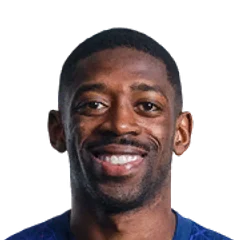
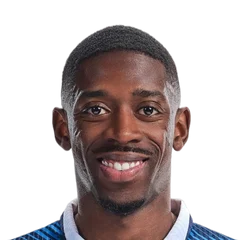
Cambios

diff --git a/styles.css b/styles.css
@@ -513,8 +513,8 @@ body.pv-locked {
 }
 
 .pv-content {
-  max-width: 480px;
-  margin: 8px auto 60px;
+  max-width: 1400px;
+  margin: 8px auto 40px;
   padding: 0 16px;
 }
 
@@ -525,12 +525,13 @@ body.pv-locked {
   border-radius: 10px 10px 0 0;
   overflow: hidden;
   box-shadow: 0 10px 30px rgba(0,0,0,0.4);
+  max-width: 600px;
 }
 
 .pv-photo-wrap {
-  width: 160px;
-  min-width: 160px;
-  height: 170px;
+  width: 130px;
+  min-width: 130px;
+  height: 130px;
   background: #333;
   display: flex;
   align-items: center;
@@ -597,6 +598,7 @@ body.pv-locked {
   background: #2d3640;
   padding: 10px 14px;
   box-shadow: 0 4px 14px rgba(0,0,0,0.3);
+  max-width: 600px;
 }
 
 .pv-pos-tag {
@@ -620,9 +622,22 @@ body.pv-locked {
   letter-spacing: 0.5px;
 }
 
-/* ── SECCIONES (todo en una sola vista, con scroll) ── */
+/* ── GRID DE SECCIONES (stats, skills, positions lado a lado) ── */
+.pv-grid {
+  display: grid;
+  grid-template-columns: repeat(4, 1fr);
+  gap: 18px;
+  margin-top: 18px;
+  align-items: start;
+}
+
+.pv-section--stats1    { grid-column: 1; }
+.pv-section--stats2    { grid-column: 2; }
+.pv-section--skills    { grid-column: 3; }
+.pv-section--positions { grid-column: 4; }
+
 .pv-section {
-  margin-top: 22px;
+  margin-top: 0;
 }
 
 .pv-section-title {
@@ -648,47 +663,65 @@ body.pv-locked {
   display: flex;
   align-items: center;
   justify-content: space-between;
-  padding: 7px 14px;
-  border-bottom: 1px solid #b8b8a8;
+  padding: 5px 12px;
+  border-bottom: 1px solid #575750;
   background: #e4e4da;
 }
 
 .pv-row:nth-child(even) { background: #d6d6c8; }
 
 .pv-row-label {
-  font-size: 12.5px;
+  font-size: 11.5px;
   font-weight: 700;
   color: #1a1a1a;
   font-family: Arial, sans-serif;
 }
 
 .pv-row-val {
-  font-size: 15px;
+  font-size: 14px;
   font-weight: 900;
   color: #1a1a1a;
-  min-width: 30px;
+  min-width: 28px;
   text-align: right;
   /* sombra sutil para que el número resalte sobre el fondo claro */
-  text-shadow: 0 1px 1px rgba(0,0,0,0.35);
+  text-shadow: 0 1px 20px rgba(0,0,0,0.35);
 }
 
 /* Colores de stats 1-99 (con sombra ya incluida vía .pv-row-val) */
 .pv-row-val.stat-green  { color: #3d9b1a; }
-.pv-row-val.stat-yellow { color: #c9a400; }
+.pv-row-val.stat-yellow { color: #a28814; }
 .pv-row-val.stat-orange { color: #d97600; }
 .pv-row-val.stat-red    { color: #d42626; }
 
 /* Habilidades especiales / posiciones: estrella */
 .pv-skill-star {
-  font-size: 16px;
+  font-size: 15px;
   color: #c9a400;
   min-width: 16px;
   text-align: right;
   text-shadow: 0 1px 1px rgba(0,0,0,0.3);
 }
 
-/* ── RESPONSIVE ── */
-@media (max-width: 480px) {
+/* ── RESPONSIVE ──
+   Desktop ancho: 4 columnas (todo a la vista, scroll mínimo).
+   Tablet: 2 columnas.
+   Mobile: 1 columna (apiladas, como antes). */
+@media (max-width: 1100px) {
+  .pv-grid { grid-template-columns: repeat(2, 1fr); }
+  .pv-section--stats1    { grid-column: 1; grid-row: 1; }
+  .pv-section--stats2    { grid-column: 2; grid-row: 1; }
+  .pv-section--skills    { grid-column: 1; grid-row: 2; }
+  .pv-section--positions { grid-column: 2; grid-row: 2; }
+}
+
+@media (max-width: 680px) {
+  .pv-grid { grid-template-columns: 1fr; gap: 14px; }
+  .pv-section--stats1,
+  .pv-section--stats2,
+  .pv-section--skills,
+  .pv-section--positions { grid-column: 1; }
+  .pv-header,
+  .pv-name-bar { max-width: 100%; }
   .pv-photo-wrap { width: 120px; min-width: 120px; height: 140px; }
   .pv-name { font-size: 14px; }
   .pv-content { padding: 0 10px; }

diff --git a/Playerview.js b/Playerview.js
@@ -232,7 +232,7 @@ class PlayerView {
     `;
   }
 
-  /** Todas las secciones (stats, skills, positions) en una sola vista con scroll. */
+  /** Todas las secciones (stats, skills, positions) en una sola vista, en columnas. */
   _buildBody(player) {
     const statRows1 = STAT_GROUP_1.map(([prop, label]) => this._row99(label, player[prop])).join('');
     const statRows2 = STAT_GROUP_2.map(([prop, label]) => this._row99(label, player[prop])).join('');
@@ -250,23 +250,30 @@ class PlayerView {
       .join('');
 
     return `
-      <div class="pv-section">
-        <h3 class="pv-section-title">Stats</h3>
-        <div class="pv-table">${statRows1}${statRows2}${extraRows}</div>
-      </div>
+      <div class="pv-grid">
+        <div class="pv-section pv-section--stats1">
+          <h3 class="pv-section-title">Stats (1)</h3>
+          <div class="pv-table">${statRows1}</div>
+        </div>
 
-      <div class="pv-section">
-        <h3 class="pv-section-title">Special skills</h3>
-        <div class="pv-table">${skillRows}</div>
-      </div>
+        <div class="pv-section pv-section--stats2">
+          <h3 class="pv-section-title">Stats (2)</h3>
+          <div class="pv-table">${statRows2}${extraRows}</div>
+        </div>
 
-      <div class="pv-section">
-        <h3 class="pv-section-title">Positions</h3>
-        <div class="pv-table">
-          ${positionRows}
-          <div class="pv-row">
-            <span class="pv-row-label">Fav. side/foot</span>
-            <span class="pv-row-val">${player.side}&amp;${player.foot}</span>
+        <div class="pv-section pv-section--skills">
+          <h3 class="pv-section-title">Special skills</h3>
+          <div class="pv-table">${skillRows}</div>
+        </div>
+
+        <div class="pv-section pv-section--positions">
+          <h3 class="pv-section-title">Positions</h3>
+          <div class="pv-table">
+            ${positionRows}
+            <div class="pv-row">
+              <span class="pv-row-label">Fav. side</span>
+              <span class="pv-row-val">${player.side}</span>
+            </div>
           </div>
         </div>
       </div>
@@ -293,7 +300,10 @@ class PlayerView {
     history.pushState({ pmView: 'player', playerId: player.id }, '', `#jugador-${player.id}`);
 
     this._show();
-    window.scrollTo({ top: 0, behavior: 'instant' in window ? 'instant' : 'auto' });
+
+    // Forzamos el scroll al tope, tanto de la página como del contenedor de la vista.
+    this._root.scrollTop = 0;
+    window.scrollTo(0, 0);
   }
 
   /** Vuelve al grid. Si hay historial propio, usa history.back(); si no, oculta directo. */

diff --git a/jugador.js b/jugador.js
@@ -200,7 +200,7 @@ export default class PES6Player {
         break;
     }
     const overallRating = this.getRating(values.map(value => value / 100));
-
+    
     return overallRating
   }
 